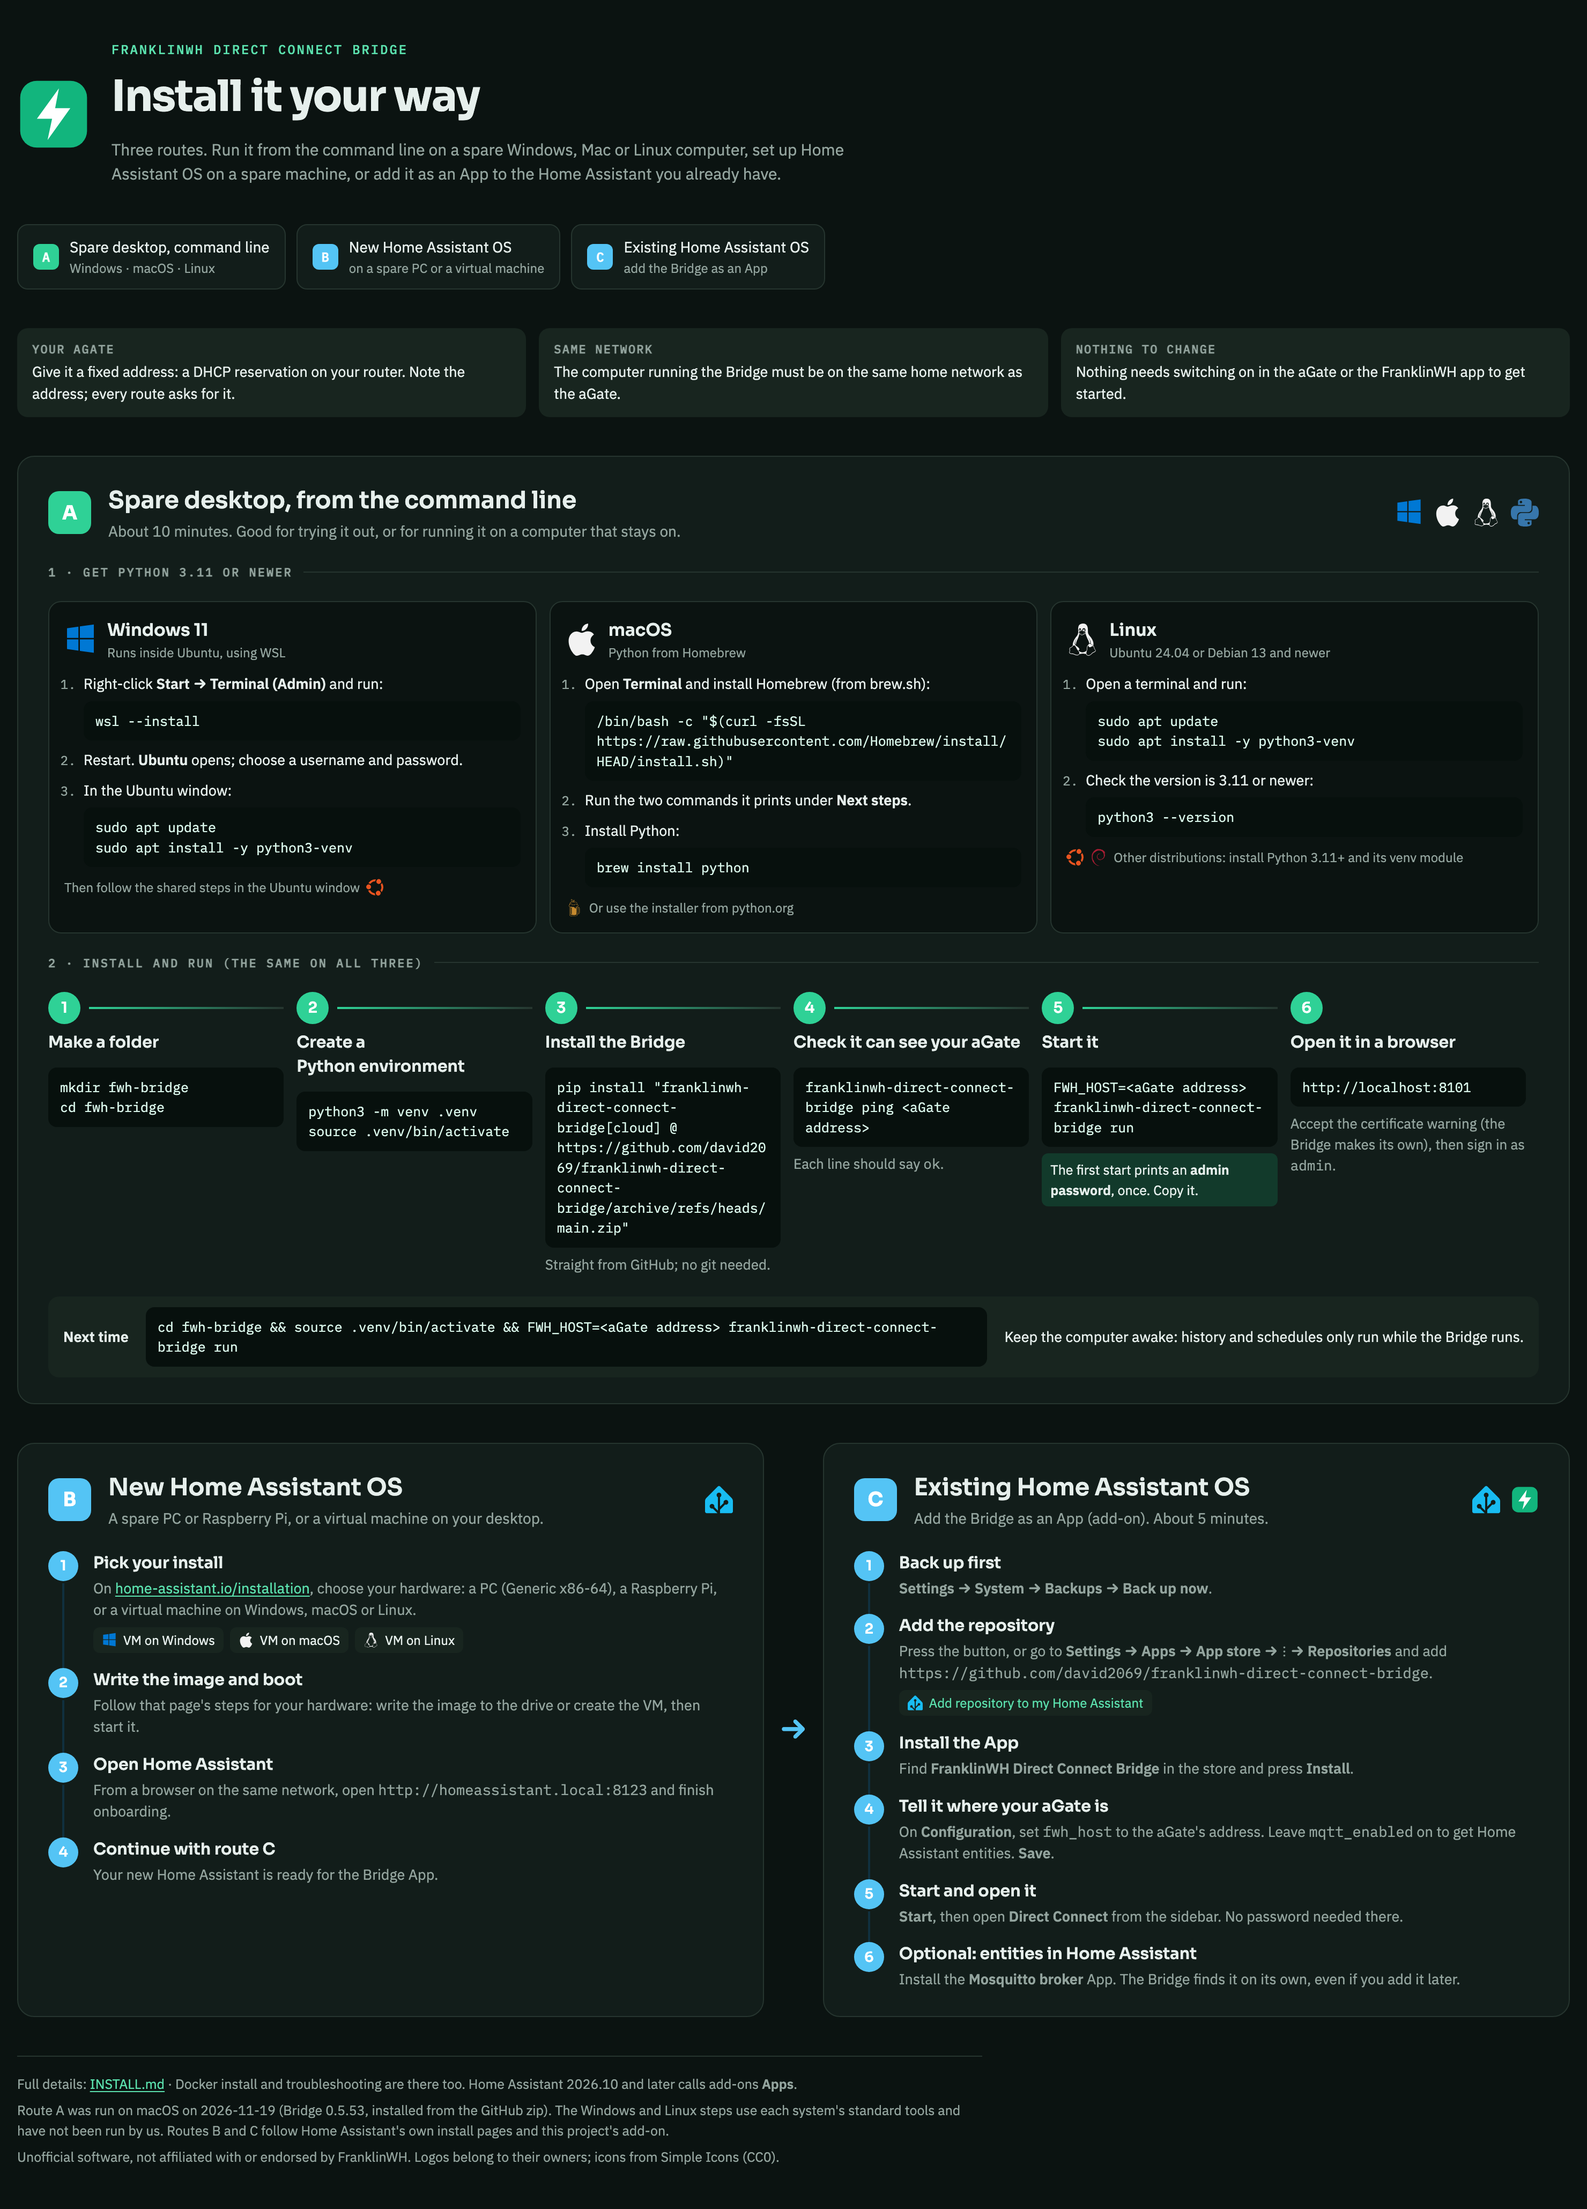
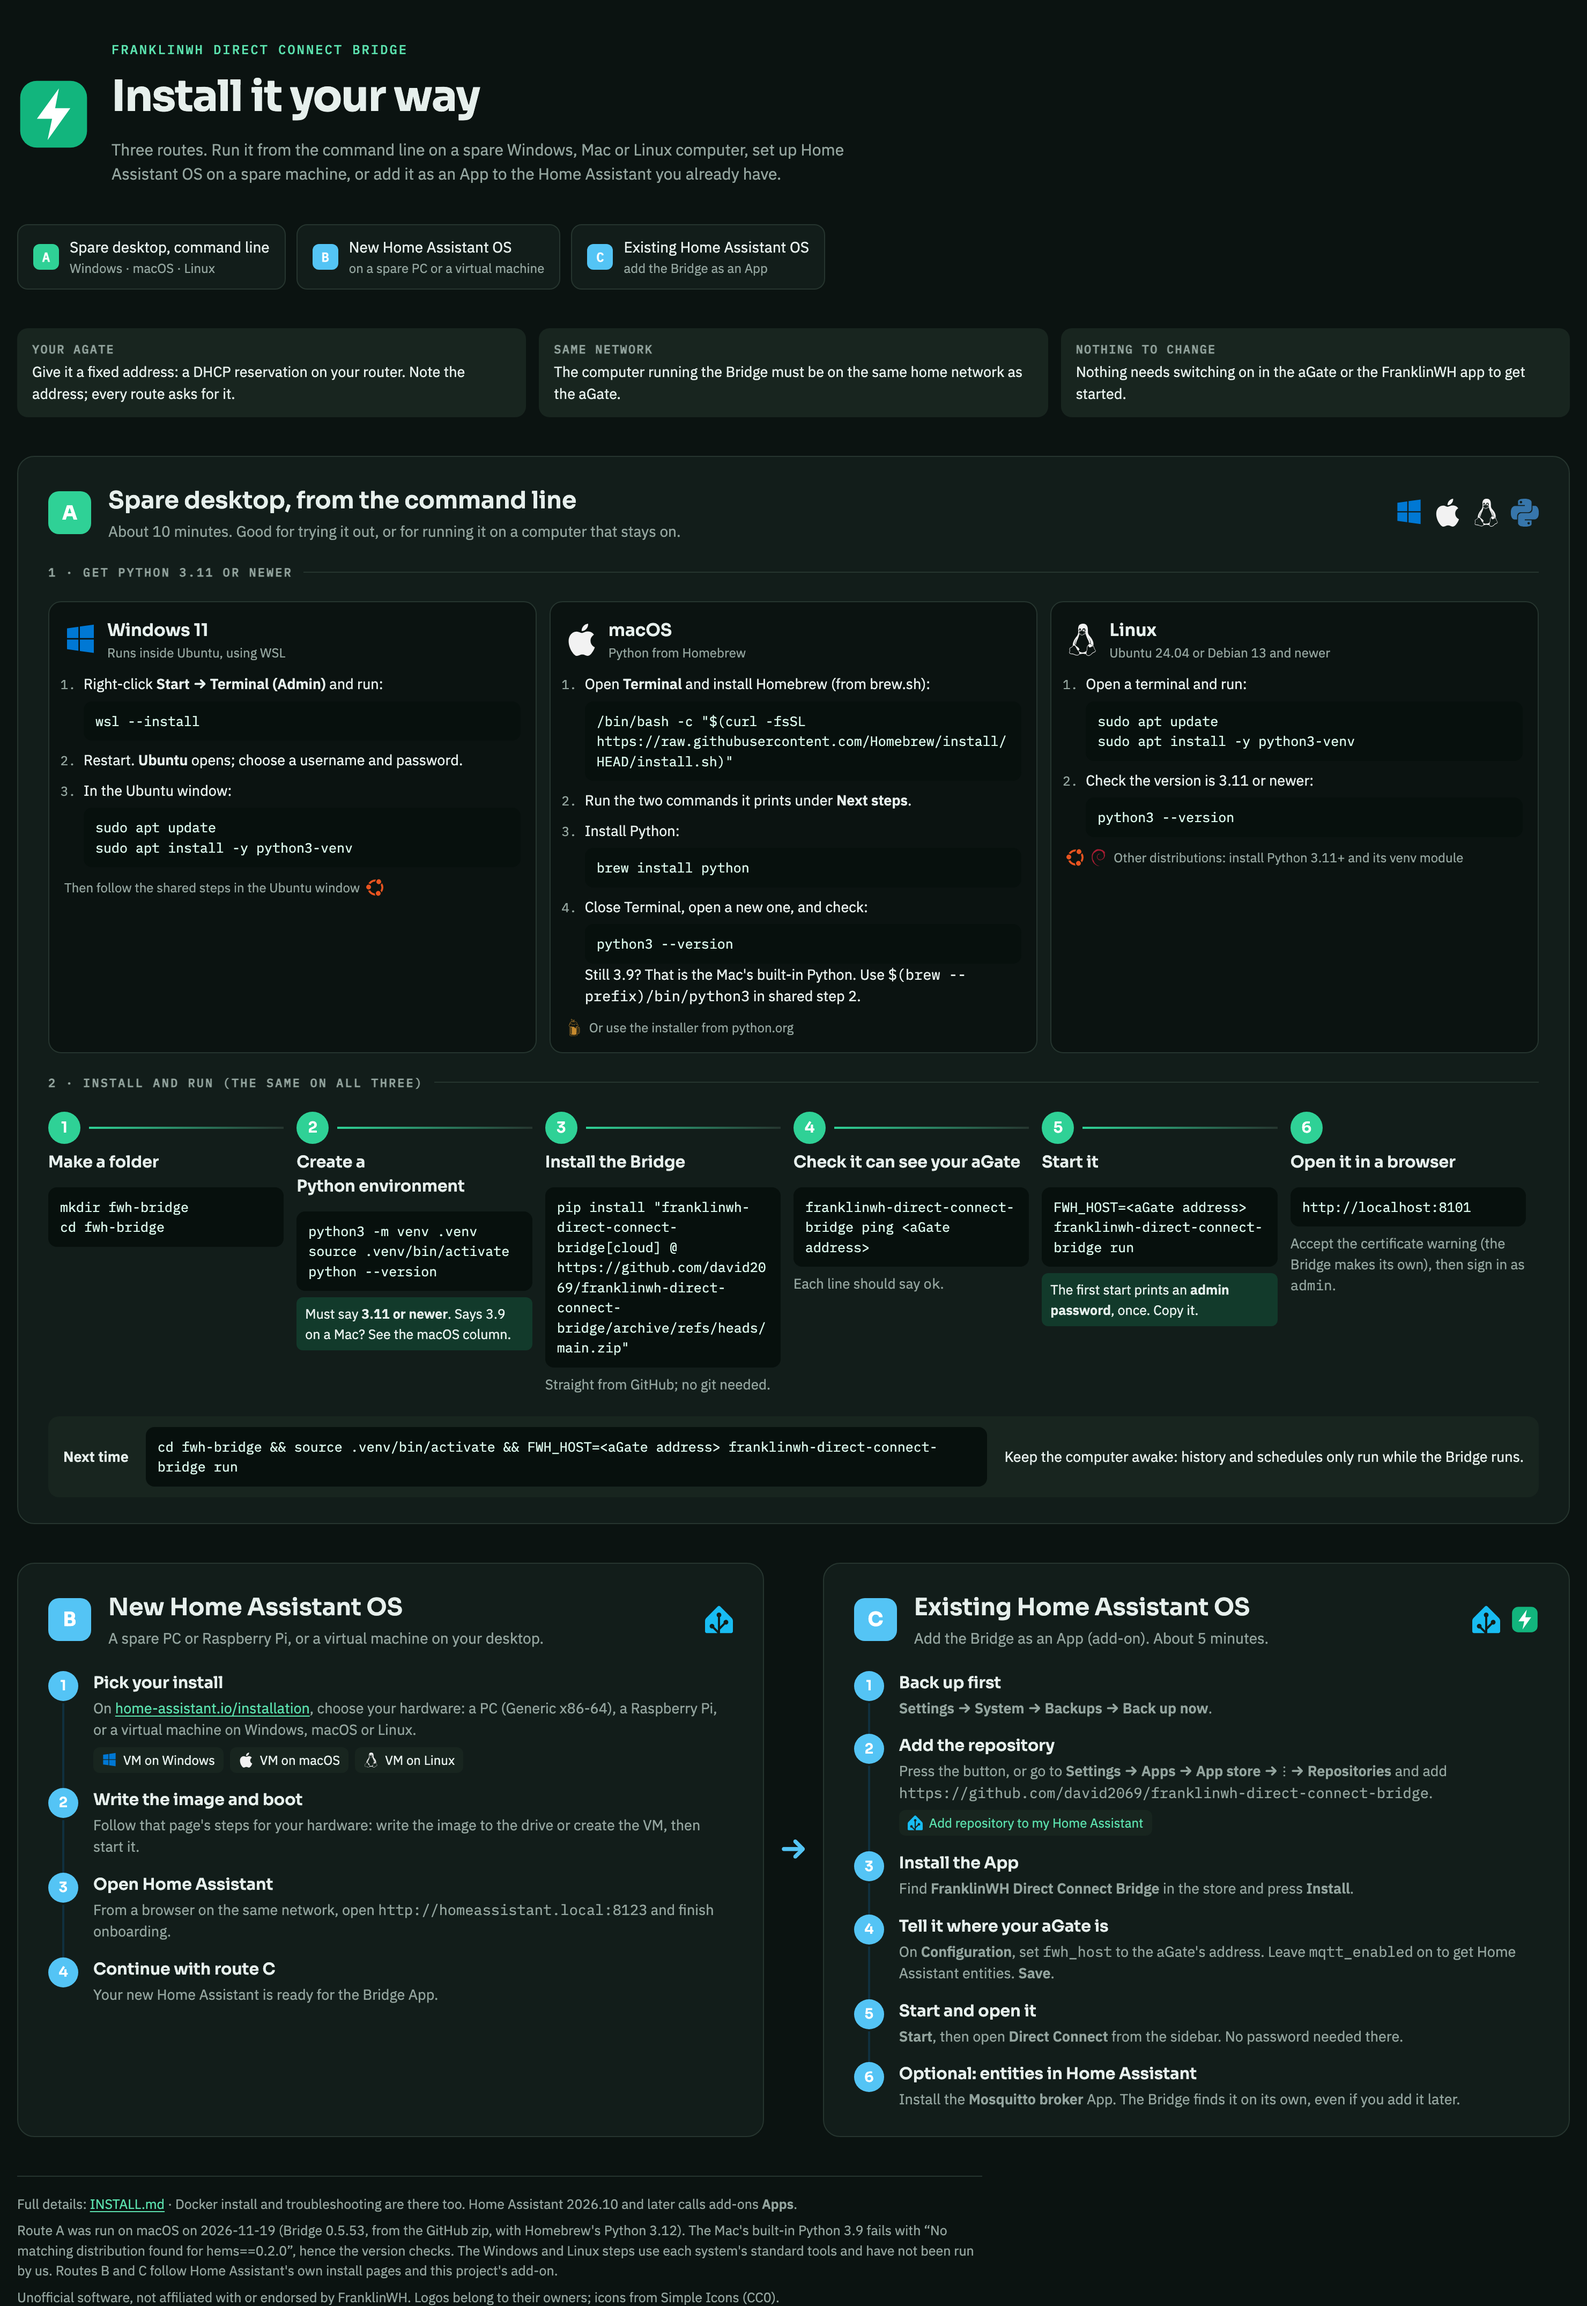
docs(quick-install): check the Python version before pip install
On macOS, plain `python3` can be Apple's Python 3.9.6 even with Homebrew's Python
installed. A venv made from it fails with "No matching distribution found for
hems==0.2.0" (hems 0.2.0 declares requires_python >=3.11). Observed 2026-11-19
following the page as written.

Adds a version check to the macOS column and to the shared venv step, says what to
do when it still reports 3.9, and records the failure in "How this page was checked".

Refs #780

diff --git a/docs/overview/quick-install.html b/docs/overview/quick-install.html
@@ -181,6 +181,7 @@ sudo apt install -y python3-venv</pre></li>
         <li>Open <b>Terminal</b> and install Homebrew (from brew.sh):<pre class="cmd">/bin/bash -c "$(curl -fsSL https://raw.githubusercontent.com/Homebrew/install/HEAD/install.sh)"</pre></li>
         <li>Run the two commands it prints under <b>Next steps</b>.</li>
         <li>Install Python:<pre class="cmd">brew install python</pre></li>
+        <li>Close Terminal, open a new one, and check:<pre class="cmd">python3 --version</pre>Still 3.9? That is the Mac's built-in Python. Use <code>$(brew --prefix)/bin/python3</code> in shared step 2.</li>
       </ol>
       <div class="via"><svg><use href="#homebrew"/></svg> Or use the installer from python.org</div>
     </div>
@@ -202,7 +203,9 @@ sudo apt install -y python3-venv</pre></li>
 cd fwh-bridge</pre></div>
     <div class="step"><div class="num"><b>2</b></div><h3>Create a Python environment</h3>
       <pre class="cmd">python3 -m venv .venv
-source .venv/bin/activate</pre></div>
+source .venv/bin/activate
+python --version</pre>
+      <div class="note">Must say <b>3.11 or newer</b>. Says 3.9 on a Mac? See the macOS column.</div></div>
     <div class="step"><div class="num"><b>3</b></div><h3>Install the Bridge</h3>
       <pre class="cmd">pip install "franklinwh-direct-connect-bridge[cloud] @ https://github.com/david2069/franklinwh-direct-connect-bridge/archive/refs/heads/main.zip"</pre>
       <p>Straight from GitHub; no git needed.</p></div>
@@ -261,7 +264,7 @@ source .venv/bin/activate</pre></div>
 
 <footer>
   <span>Full details: <a href="https://github.com/david2069/franklinwh-direct-connect-bridge/blob/main/INSTALL.md">INSTALL.md</a> · Docker install and troubleshooting are there too. Home Assistant 2026.10 and later calls add-ons <b>Apps</b>.</span>
-  <span>Route A was run on macOS on 2026-11-19 (Bridge 0.5.53, installed from the GitHub zip). The Windows and Linux steps use each system's standard tools and have not been run by us. Routes B and C follow Home Assistant's own install pages and this project's add-on.</span>
+  <span>Route A was run on macOS on 2026-11-19 (Bridge 0.5.53, from the GitHub zip, with Homebrew's Python 3.12). The Mac's built-in Python 3.9 fails with “No matching distribution found for hems==0.2.0”, hence the version checks. The Windows and Linux steps use each system's standard tools and have not been run by us. Routes B and C follow Home Assistant's own install pages and this project's add-on.</span>
   <span>Unofficial software, not affiliated with or endorsed by FranklinWH. Logos belong to their owners; icons from Simple Icons (CC0).</span>
 </footer>
 </div>

diff --git a/docs/guide/quick-install.md b/docs/guide/quick-install.md
@@ -65,6 +65,16 @@ Where this page and INSTALL.md disagree, INSTALL.md is the reference.
         brew install python
         ```
 
+    4. Close Terminal, open a new one, and check the version:
+
+        ```bash
+        python3 --version
+        ```
+
+        It must say 3.11 or newer. If it still says **3.9**, `python3` is the Mac's own
+        Python, not Homebrew's. In step 2 below, use `$(brew --prefix)/bin/python3 -m venv .venv`
+        instead of `python3 -m venv .venv`.
+
     Or use the installer from [python.org](https://www.python.org/downloads/).
 
 === "Linux"
@@ -89,8 +99,14 @@ mkdir fwh-bridge
 cd fwh-bridge
 python3 -m venv .venv
 source .venv/bin/activate
+python --version
 pip install "franklinwh-direct-connect-bridge[cloud] @ https://github.com/david2069/franklinwh-direct-connect-bridge/archive/refs/heads/main.zip"
 ```
+
+`python --version` must say 3.11 or newer before you run `pip install`. On an older Python,
+pip stops with *No matching distribution found for hems==0.2.0*, because the Bridge's
+dependencies need 3.11+. Delete the folder's `.venv` and create it again with a newer
+Python (see your OS tab above).
 
 That installs straight from GitHub; git is not needed. Check it can see your aGate (each line
 should say `ok`):
@@ -151,8 +167,13 @@ Home Assistant 2026.10 and later calls add-ons **Apps**; INSTALL.md still says *
 ## How this page was checked
 
 - **Route A on macOS** was run on 2026-11-19 with Bridge 0.5.53, installed from the GitHub
-  zip as above: `ping`, the first start (the admin password was printed), and
-  `http://localhost:8101` redirecting to the HTTPS sign-in page.
+  zip as above, using Homebrew's Python 3.12 by its full path: `ping`, the first start (the
+  admin password was printed), and `http://localhost:8101` redirecting to the HTTPS sign-in
+  page.
+- **Plain `python3` on macOS** was also tried on 2026-11-19. On that Mac it was Apple's
+  Python 3.9.6 (from Xcode), and the install failed with *No matching distribution found
+  for hems==0.2.0* (PyPI lists `hems` 0.2.0 as `requires_python >=3.11`). That is why the
+  version checks are there.
 - **Route A on Windows and Linux** uses each system's standard tools and has **not been run**
   for this page.
 - **Routes B and C** follow Home Assistant's own installation pages and this project's
